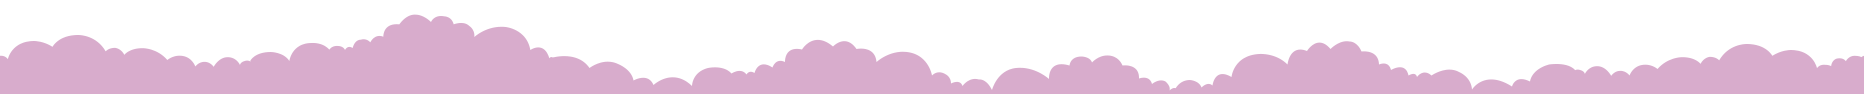
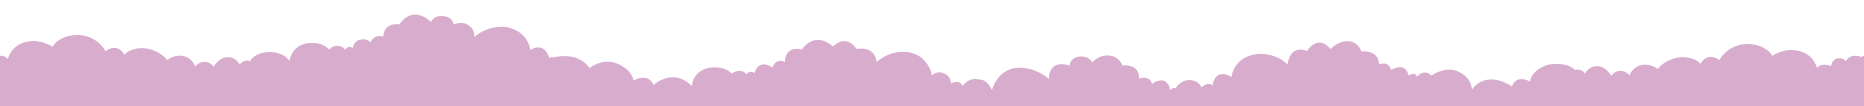
testing at hight end

diff --git a/public/css/styles.scss b/public/css/styles.scss
@@ -197,6 +197,7 @@ a {
 		left: 0;
 		right: 0;
 		bottom: 0;
+		z-index: 3;
 	}
 	.cloud-above,
 	.cloud-below {
@@ -204,11 +205,11 @@ a {
 		left: 0;
 		right: 0;
 		bottom: 0;
-		height: 94px;
+		height: 106px;
 	}
 	.cloud-above {
 		background: url(/public/img/cloud-above.png) 0 0;
-		z-index: 3;
+		z-index: 4;
 		-webkit-animation: cloudFrowardAnim 170s linear infinite;
 	}
 	.cloud-below {

diff --git a/_includes/home.html b/_includes/home.html
@@ -12,9 +12,9 @@
       <a href="" class="icon-github"></a>
     </div>
 
-    <!-- <div class="elsewhere jump-down">
+    <div class="elsewhere jump-down">
       <span class="icon-down"></span>
-    </div> -->
+    </div>
 
     <div class="cloud-above"></div>
     <div class="cloud-below"></div>
